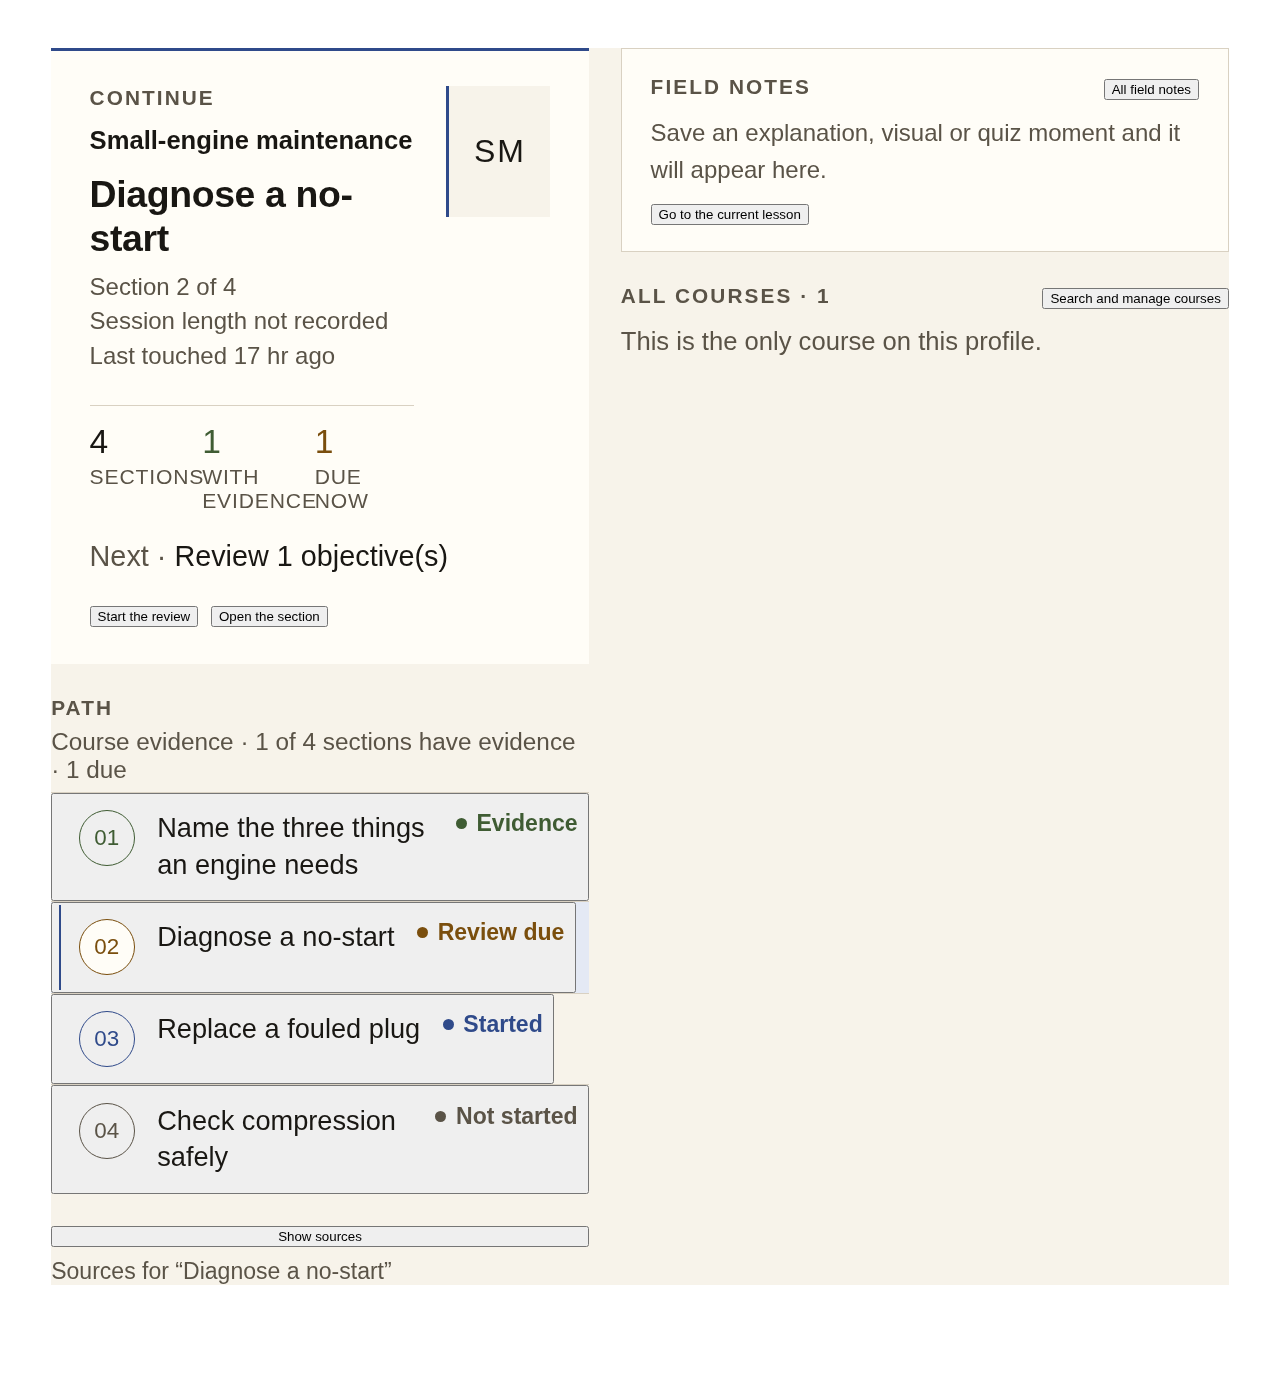
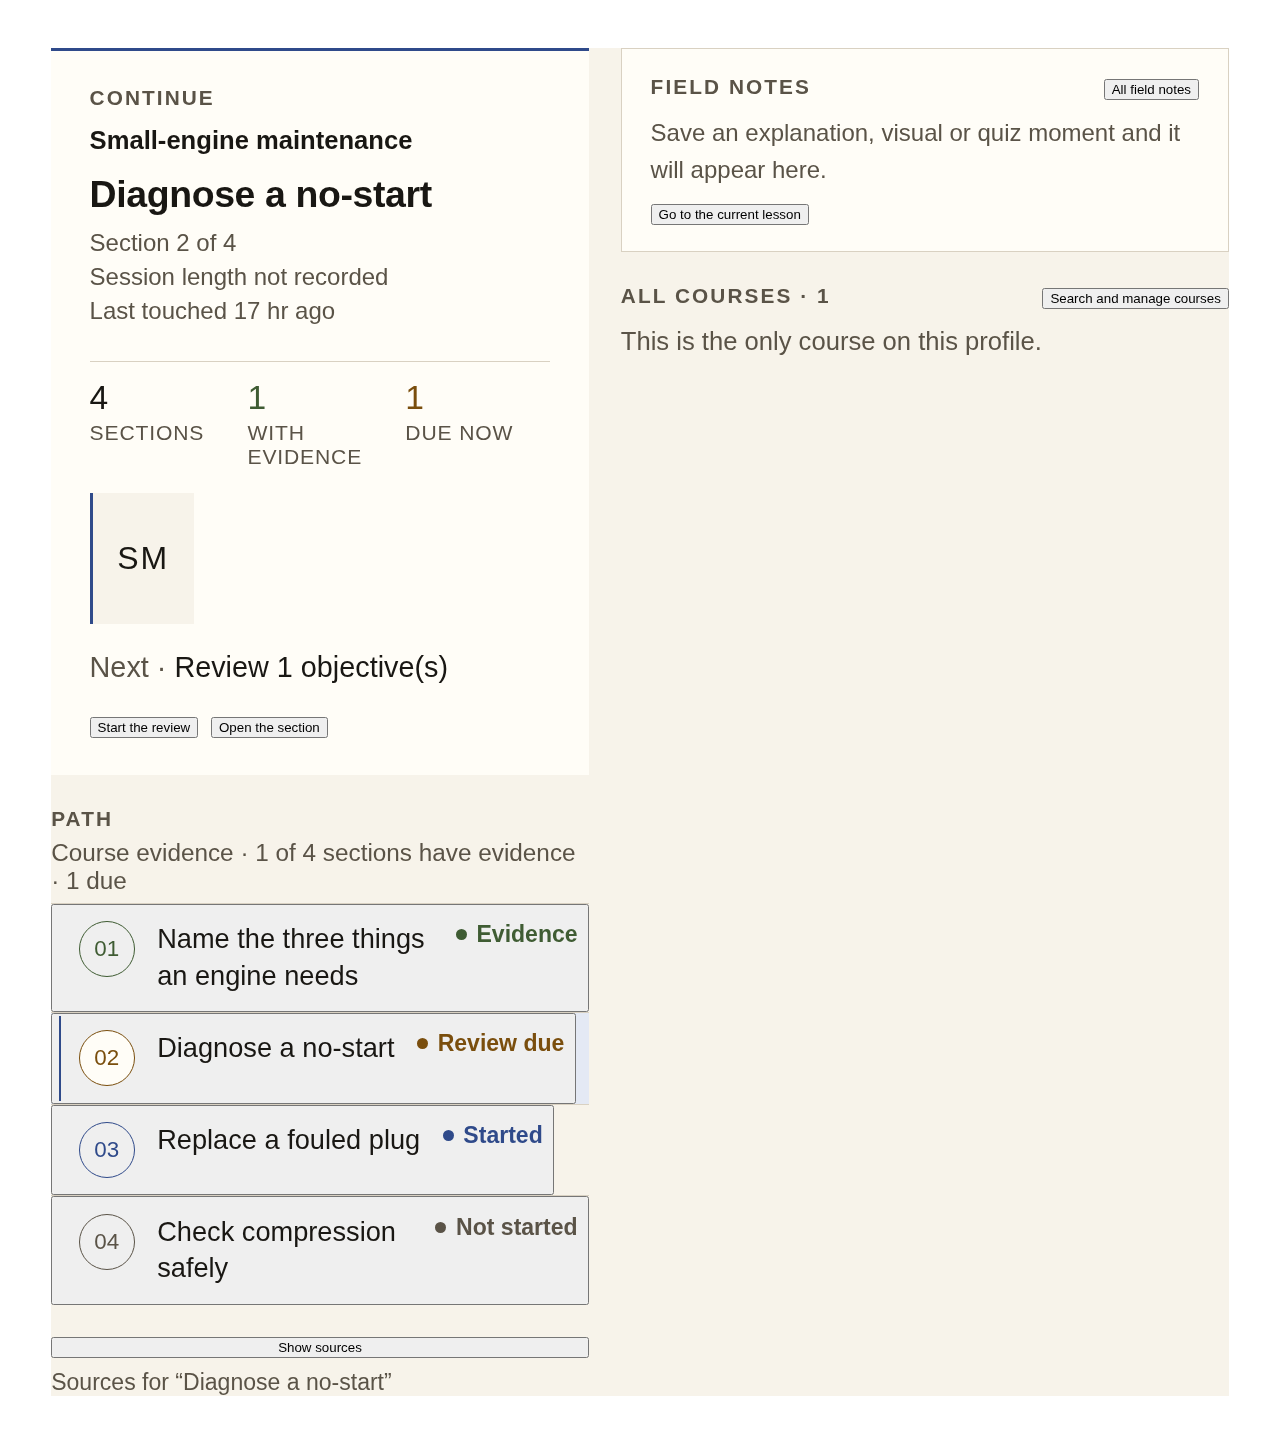
H-70: make Coursebook lay out from its route width

diff --git a/desktop/plugin.js b/desktop/plugin.js
@@ -2226,13 +2226,18 @@ function ContinueCard({ desk, busy, onPrimary, onOpenSection }) {
   const current = desk.current
   const title = current ? current.title : desk.nextLabel
   const courseTitle = desk.row && desk.row.title ? desk.row.title : null
+  // At a genuinely narrow route the stamp would steal the last usable line length from the title.
+  // Keep it on the wide desk, where it reads as a course cover; drop it when the text must lead.
+  const viewportWidth = useCbViewportWidth()
+  const compact = viewportWidth > 0 && viewportWidth < 620
   return jsxs('section', {
     'data-cb-continue': '',
+    'data-cb-continue-compact': compact ? 'true' : 'false',
     style: {
       display: 'flex',
       flexDirection: 'column',
       gap: '0.65rem',
-      padding: '1.1rem 1.2rem 1.15rem',
+      padding: compact ? '0.9rem 0.95rem' : '1.1rem 1.2rem 1.15rem',
       background: 'var(--cb-paper-raised)',
       border: '1px solid var(--cb-rule)',
       borderTop: '3px solid var(--cb-accent)',
@@ -2240,10 +2245,10 @@ function ContinueCard({ desk, busy, onPrimary, onOpenSection }) {
     },
     children: [
       jsxs('div', {
-        style: { display: 'flex', alignItems: 'flex-start', justifyContent: 'space-between', gap: '1rem' },
+        style: { display: 'flex', flexWrap: 'wrap', alignItems: 'flex-start', justifyContent: 'space-between', gap: '0.75rem 1rem' },
         children: [
           jsxs('div', {
-            style: { display: 'flex', flexDirection: 'column', gap: '0.4rem', minWidth: 0 },
+            style: { display: 'flex', flexDirection: 'column', gap: '0.4rem', minWidth: 0, flex: '1 1 16rem' },
             children: [
               jsx(DeskLabel, { children: 'Continue' }),
               courseTitle
@@ -2254,7 +2259,7 @@ function ContinueCard({ desk, busy, onPrimary, onOpenSection }) {
                       fontWeight: 600,
                       lineHeight: 1.4,
                       color: 'var(--cb-ink)',
-                      overflowWrap: 'anywhere'
+                      overflowWrap: 'break-word'
                     },
                     children: courseTitle
                   })
@@ -2263,11 +2268,11 @@ function ContinueCard({ desk, busy, onPrimary, onOpenSection }) {
                 'data-cb-continue-section': '',
                 style: {
                   margin: 0,
-                  fontSize: 'clamp(1.25rem, 1rem + 1vw, 1.95rem)',
+                  fontSize: compact ? '1.35rem' : 'clamp(1.25rem, 1rem + 1vw, 1.95rem)',
                   lineHeight: 1.18,
                   letterSpacing: '-0.01em',
                   color: 'var(--cb-ink)',
-                  overflowWrap: 'anywhere'
+                  overflowWrap: 'break-word'
                 },
                 children: title
               }),
@@ -2295,7 +2300,7 @@ function ContinueCard({ desk, busy, onPrimary, onOpenSection }) {
               jsx(DeskStats, { desk })
             ]
           }),
-          jsx(CourseStamp, { title: courseTitle || title, large: true })
+          compact ? null : jsx(CourseStamp, { title: courseTitle || title, large: true })
         ]
       }),
       jsxs('p', {
@@ -2928,6 +2933,7 @@ function FieldDeskHome({
 
   return jsxs('div', {
     'data-cb-desk': 'ready',
+    'data-cb-desk-layout': wide ? 'wide' : 'stacked',
     style: { display: 'flex', flexDirection: 'column', gap: '1rem', minWidth: 0 },
     children: [
       stale
@@ -7893,6 +7899,41 @@ function useCbMotion() {
 
 /** Live width from `host.state.viewport`, with a static read for hosts that predate the atom. */
 function useCbViewportWidth() {
+  // The host atom reports the whole application window. Coursebook can sit in a much narrower
+  // route pane (for example beside the chat rail), and choosing the wide shell from the window
+  // width squeezes the Continue card into a word-per-line column. Measure the route itself when a
+  // DOM exists; keep the host read as the SSR/older-host fallback.
+  const [containerWidth, setContainerWidth] = useState(0)
+  useEffect(() => {
+    if (typeof document === 'undefined' || typeof window === 'undefined') return undefined
+    let node = null
+    let observer = null
+    const read = () => {
+      if (!node || !node.isConnected) return
+      const rect = node.getBoundingClientRect()
+      if (rect.width > 0) setContainerWidth(Math.round(rect.width))
+    }
+    const attach = () => {
+      node = document.querySelector('[data-cb-route]')
+      if (!node) return false
+      read()
+      if (typeof ResizeObserver === 'function') {
+        observer = new ResizeObserver(read)
+        observer.observe(node)
+      }
+      window.addEventListener('resize', read)
+      return true
+    }
+    if (!attach()) {
+      const retry = window.setTimeout(attach, 0)
+      return () => window.clearTimeout(retry)
+    }
+    return () => {
+      if (observer) observer.disconnect()
+      window.removeEventListener('resize', read)
+    }
+  }, [])
+
   const atom = sdk.host && sdk.host.state ? sdk.host.state.viewport : null
   const read = () => {
     try {
@@ -7905,9 +7946,9 @@ function useCbViewportWidth() {
   }
   if (atom && typeof sdk.useValue === 'function') {
     const rect = sdk.useValue(atom)
-    if (rect && typeof rect.width === 'number') return rect.width
+    if (rect && typeof rect.width === 'number') return containerWidth || rect.width
   }
-  return read()
+  return containerWidth || read()
 }
 
 /** Pure so the layout decision is testable without a window: wide only when the width is known. */
@@ -15517,6 +15558,8 @@ function CoursebookPane() {
   // The pane is part of the same scoped surface as the route: same token table, same mode.
   const cbMode = useCbMode()
   const cbMotion = useCbMotion()
+  const paneWidth = useCbViewportWidth()
+  const narrowPane = paneWidth > 0 && paneWidth < 620
   const scopeProfile = currentScope().profile
   const [bindNote, setBindNote] = useState(null)
   const attemptedBind = useRef(null)
@@ -15597,9 +15640,10 @@ function CoursebookPane() {
     body = jsx(sdk.PanelEmpty, {
       icon: 'book',
       title: 'No durable chat yet',
-      description:
-        'A new chat gets its stored session id after its first turn. Coursebook binds a lesson to that ' +
-        'stored id — never to the live runtime id and never to "the most recent chat".',
+      description: narrowPane
+        ? 'Coursebook binds this chat after its first message. Open Coursebook to start or resume a lesson.'
+        : 'A new chat gets its stored session id after its first turn. Coursebook binds a lesson to that ' +
+          'stored id — never to the live runtime id and never to "the most recent chat".',
       action: jsx(sdk.Button, { variant: 'secondary', size: 'sm', onClick: openCoursebook, children: 'Open Coursebook' })
     })
   } else if (state.status === 'loading') {

diff --git a/tests/test_desktop_field_desk.py b/tests/test_desktop_field_desk.py
@@ -140,7 +140,7 @@ export const host = {
     focusedStoredSessionId: atom(null),
     focusedSessionProfile: atom('default'),
     profile: atom('default'),
-    viewport: atom({ width: 1280, height: 900, narrow: false })
+    viewport: atom({ width: Number(process.env.CB_TEST_WIDTH || 1280), height: 900, narrow: false })
   },
   profileRoutes: async () => [{ connectionId: 'local', mode: 'local', profile: 'default', targetProfile: 'default' }],
   navigate: () => {},
@@ -299,11 +299,14 @@ class FieldDeskRenderTest(unittest.TestCase):
     def run_harness(self, payload: dict) -> str:
         case = self.root / "case.json"
         case.write_text(json.dumps(payload), encoding="utf-8")
+        env = dict(os.environ)
+        env["CB_TEST_WIDTH"] = str(payload.get("width", 1280))
         result = subprocess.run(
             ["node", str(self.root / "harness.mjs"), str(case)],
             cwd=self.root,
             capture_output=True,
             text=True,
+            env=env,
             timeout=120,
         )
         self.assertEqual(result.returncode, 0, result.stderr[-2000:])
@@ -341,6 +344,21 @@ class FieldDeskRenderTest(unittest.TestCase):
         self.assertIn("Review 1 objective(s)", html)
         self.assertIn("Next · ", html)
         self.assertIn("Section 2 of 4", html)
+
+    def test_a_narrow_desk_stacks_and_drops_the_course_stamp(self) -> None:
+        html = self.render(width=460)
+        self.assertIn('data-cb-desk-layout="stacked"', html)
+        self.assertIn('data-cb-continue-compact="true"', html)
+        self.assertNotIn("data-cb-course-stamp", html)
+        # The title is not being squeezed into a term-per-line column; the full row remains.
+        self.assertIn("Diagnose a no-start", html)
+        self.assertIn("Open the section", html)
+
+    def test_a_wide_desk_keeps_the_course_stamp(self) -> None:
+        html = self.render(width=1280)
+        self.assertIn('data-cb-desk-layout="wide"', html)
+        self.assertIn('data-cb-continue-compact="false"', html)
+        self.assertIn("data-cb-course-stamp", html)
 
     def test_continue_shows_the_recorded_estimate_and_last_touched(self) -> None:
         html = self.render()

diff --git a/README.md b/README.md
@@ -52,7 +52,7 @@ describe this tree. The product-line rows are separate, and they use two weaker 
 
 | Product-line surface | State on this tree | Evidence |
 | --- | --- | --- |
-| Contracts `cb.rpc` v14 and `cb.db` v9, with `cb.jobs` v4, `cb.errors` v4 and the v1 `cb.pack`, `cb.projection` and `cb.vocabulary` | Working at this commit: 64 declared methods and 64 handlers. `observation.record` was frozen by `cb.rpc` v14 in H-53 and wired by H-54, so the registry test allows no gap: any declared method that loses its handler fails the suite. Schema 9 from migrations `0001`-`0009` | `contracts/rpc.v14.json`, `contracts/db.v9.json`; parity asserted by the suite (`1642 tests OK, 1 skipped`); `coursebook/api.py` `implemented_methods()` returns all 64 declared methods |
+| Contracts `cb.rpc` v14 and `cb.db` v9, with `cb.jobs` v4, `cb.errors` v4 and the v1 `cb.pack`, `cb.projection` and `cb.vocabulary` | Working at this commit: 64 declared methods and 64 handlers. `observation.record` was frozen by `cb.rpc` v14 in H-53 and wired by H-54, so the registry test allows no gap: any declared method that loses its handler fails the suite. Schema 9 from migrations `0001`-`0009` | `contracts/rpc.v14.json`, `contracts/db.v9.json`; parity asserted by the suite (`1644 tests OK, 1 skipped`); `coursebook/api.py` `implemented_methods()` returns all 64 declared methods |
 | Textbook view | Working (live): a real document served over the real RPC; the frame set covers Textbook and Guided (13 frames) | `audit/visual/m1-guided-authoring/README.md` |
 | Guided view | Working (live) on a newly authored document (`state=complete`, `views.guided=true`). The older demo course still reports `textbook_only` because its stored page predates `lesson-prompt.v5`; it was not rewritten | `audit/visual/m1-guided-authoring/` |
 | Field Desk cockpit (Continue, path, stats, Field Notes, sources, all courses) | Working (live): the cockpit, its opened sources drawer, and its backend-off, empty and loading states were read from an isolated window at plugin sha `638e0f5e…` | `audit/visual/m2-field-desk/README.md`, `live-evidence.json` |
@@ -83,7 +83,7 @@ there is no code path at all. Unless a row names a later commit, the row describ
 | Frozen contracts at `29bede7`: `cb.rpc` v7, `cb.db` v4, `cb.jobs` v2, `cb.errors` v2, `cb.pack` v1, `cb.projection` v1, `cb.vocabulary` v1 | Working in that build: 52 declared methods, 52 handlers, no contract problems from `/runtime`. This tree has moved to `cb.rpc` v14 and `cb.db` v9 with 64 declared methods and 64 handlers; the product-line row above carries the current numbers |
 | Profile-scoped SQLite schema and migrations `0001`-`0004` at `29bede7` | Working: `health.get` answers `db.ready: true`, `schema_version: 4` on a fresh home. This tree ships migrations `0001`-`0009` and answers `db.ready: true`, `schema_version: 9` on a fresh home |
 | Desktop route `#/coursebook`, sidebar entry, pane, command palette, settings page | Working with a reachable backend: mounts the library, `New course`, Parent Studio and a course card (`docs/CB017-RELEASE-VERIFICATION.md` §2). A window with no gateway renders no route page for any hash — host shell degradation, reclassified P3-operational by Atlas (`docs/REVIEW_CB017-FINAL.md` §3.1) |
-| Course creation, plans, lessons, grading, transitions, evidence | Implemented, unverified in the UI: 685-test suite at `29bede7`, plus adversarial S01/S02/S10-S12 (duplicate submit, stale revision, invalid/hung/throwing grader) all pass in that build. The suite is 1642 tests on this tree (1 skipped) |
+| Course creation, plans, lessons, grading, transitions, evidence | Implemented, unverified in the UI: 685-test suite at `29bede7`, plus adversarial S01/S02/S10-S12 (duplicate submit, stale revision, invalid/hung/throwing grader) all pass in that build. The suite is 1644 tests on this tree (1 skipped) |
 | Replan of an approved plan, then lessons, then export | Working end to end for this tree: replan → plan approve (v10) → lessons job start → 4 lessons authored → lesson-set approve → export, with the UI and the backend agreeing on the approved content hash (`sha256:ccf69462…e5a5`), `export.ready: true` and no `blocked_reason`. Evidence: `docs/REVIEW_CB017-row9-ui.json`, `docs/REVIEW_CB017-FINAL.md` §10 |
 | Notebooks, quiz history, review queue, usage accounting | Implemented, unverified in the UI: `notebook.save/list/update/delete`, `quiz.history`, `review.queue/action` and `usage.summary` are in the mounted registry |
 | Pack import and export, Parent Studio authoring | Implemented, unverified in the UI: `pack.import/export/preview/inspect/list/delete` and eight `parent.*` methods; P17/P18/P20 pass, and export reproduces the reviewed content hash |
@@ -285,7 +285,7 @@ bash scripts/validate-plugin.sh # release gate: admission on a git archive expor
 
 Run `scripts/validate.sh` before any merge into master. It is the pre-merge gate; it passed on the
 0.1.0 commit with 685 tests, node check OK and 31/31 backend expectations. On this tree the suite
-is 1642 tests (`python3 -m unittest discover -s tests -t .`, `OK (skipped=1)`). Its admission step validates
+is 1644 tests (`python3 -m unittest discover -s tests -t .`, `OK (skipped=1)`). Its admission step validates
 an export of the tracked tree (`scripts/lib/gate-export.sh`), not the checkout root, so the
 gitignored `.worktrees/` farm is never scanned and an uncommitted edit to a tracked file still fails
 that step. `scripts/validate-plugin.sh` is the release gate for one pinned commit.
